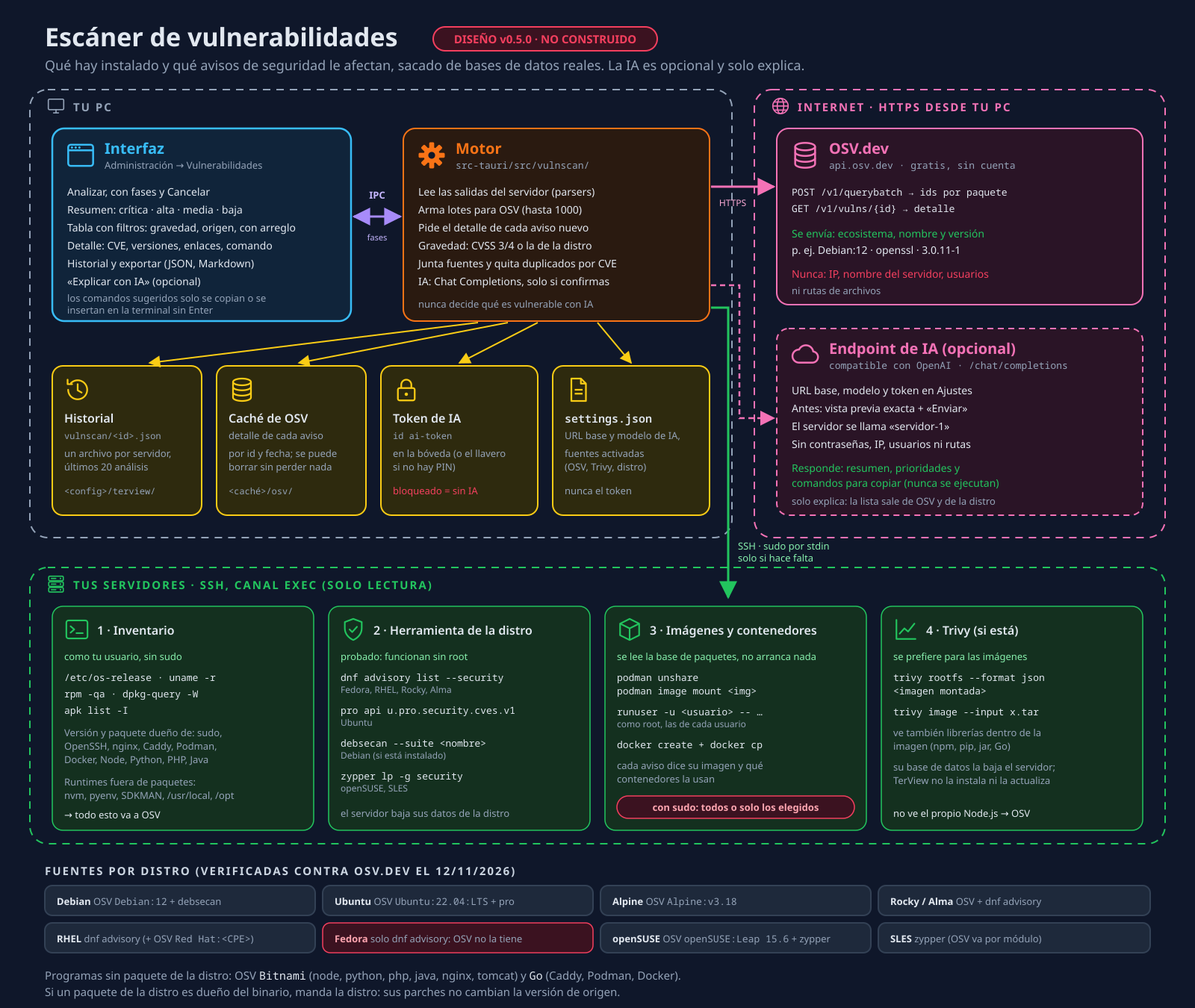
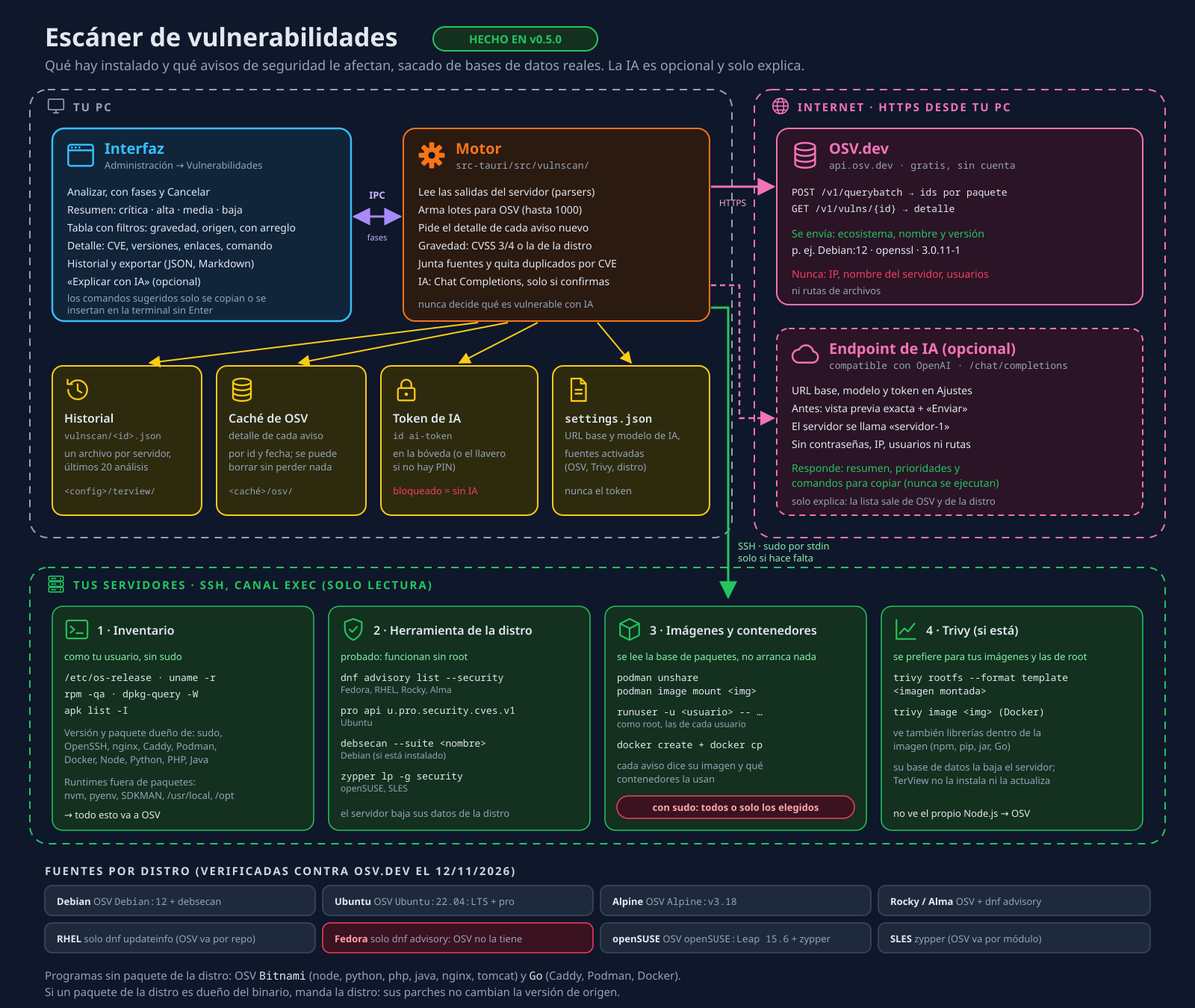
Documentación del escáner de vulnerabilidades (v0.5.0)
PENDIENTES sección 10 y ARQUITECTURA 16b pasan de diseño a construido, con las
pruebas, los cambios respecto al diseño y lo que queda sin verificar. Diagrama 17
actualizado. CHANGELOG y README.

Changed region(s): [[0.3438, 0.0, 0.5625, 0.0622], [0.8125, 0.6844, 0.8438, 0.7156]]

diff --git a/docs/PENDIENTES.md b/docs/PENDIENTES.md
@@ -7,7 +7,8 @@ varios servidores, GitHub, versiones y actualizaciones. Los comandos que se ejec
 **cancelar de verdad** (se detienen también en el servidor).
 
 **Lo que sigue pendiente:**
-- **Escáner de vulnerabilidades** (sección 10): diseñado para la v0.5.0, sin construir.
+- **Escáner de vulnerabilidades** (sección 10): **hecho para la v0.5.0**; falta probarlo a mano en la app
+  y lo de [10.14](#1014-sin-verificar-y-riesgos) (Docker real, SLES/RHEL, otros usuarios con systemd…).
 - **Servidor MCP** (sección 3): opcional, diseñado y en pausa.
 - **Firmar el instalador** de Windows (SmartScreen avisa al instalar).
 - **Pruebas reales**: en un Windows real, contra un servidor con 2FA y con un agente SSH real.
@@ -24,7 +25,7 @@ Este documento guarda lo que falta, **con suficiente detalle para retomarlo más
 | 3 | [Servidor MCP (conectar asistentes de IA)](#3-servidor-mcp-conectar-asistentes-de-ia) | **Opcional** (última fase) | Diseñado, en pausa |
 | 5 | [Exportar servidores a `~/.ssh/config`](#5-exportar-servidores-a-sshconfig) | Alta (corta) | ✅ Hecho (v0.2.0) |
 | 4 | [Otros pendientes detectados](#4-otros-pendientes-detectados) | Media/Baja | Mayoría hecha; ver tabla |
-| 10 | [Escáner de vulnerabilidades](#10-escáner-de-vulnerabilidades--diseñado-v050) (OSV.dev, herramientas de la distro, Trivy; IA opcional solo para explicar) | Alta (v0.5.0) | Diseñado (v0.5.0) |
+| 10 | [Escáner de vulnerabilidades](#10-escáner-de-vulnerabilidades--hecho-v050) (OSV.dev, herramientas de la distro, Trivy; IA opcional solo para explicar) | Alta (v0.5.0) | ✅ Hecho (v0.5.0) |
 
 **Orden sugerido:** 2 (reconexión) → 5 (exportar a `~/.ssh/config`) → 1 (biblioteca de comandos)
 → 3 (MCP, solo si hace falta; reutiliza `exec_capture` y el catálogo de la biblioteca).
@@ -554,12 +555,14 @@ empezando por **llaves SSH** y **sincronizar configuración**.
 
 ---
 
-## 10. Escáner de vulnerabilidades — diseñado (v0.5.0)
+## 10. Escáner de vulnerabilidades — hecho (v0.5.0)
 
-> **Estado: diseño, aún no construido.** El código actual no tiene nada de esto. Los comandos, nombres
-> de ecosistemas y formatos de salida de esta sección se **probaron de verdad el 12/11/2026** contra
-> OSV.dev y contenedores reales (ver [10.13](#1013-qué-se-comprobó-de-verdad-12112026)); lo que no se
-> pudo probar está en [10.14](#1014-sin-verificar-y-riesgos).
+> **Estado: construido (v0.5.0).** Motor en `src-tauri/src/vulnscan/` y `src-tauri/src/ai/`; interfaz en
+> Administración → **Vulnerabilidades** (`src/components/Admin/Vulns*.tsx`, `src/features/vulnscan/`) y
+> Ajustes → **Asistente de IA**. Los comandos, ecosistemas y formatos se probaron de verdad el 12/11/2026
+> (diseño, [10.13](#1013-qué-se-comprobó-de-verdad-12112026)) y otra vez al construirlo, con pruebas
+> automáticas contra contenedores reales ([10.15](#1015-pruebas)). Lo que cambió respecto al diseño está en
+> [10.16](#1016-cambios-respecto-al-diseño); lo que falta probar, en [10.14](#1014-sin-verificar-y-riesgos).
 
 ![Escáner de vulnerabilidades](arquitectura/17-vulnerabilidades.png)
 
@@ -872,26 +875,28 @@ importan, mejor en la carpeta de configuración.
 - La **IA** solo recibe lo que el usuario ve y confirma en el diálogo (10.8).
 - Nada sale del PC si las fuentes están desactivadas en Ajustes (modo «solo herramientas del servidor»).
 
-### 10.12 Plan de construcción por partes
+### 10.12 Cómo está construido
 
-Cada parte se puede probar sola. Orden sugerido:
+| Parte | Archivos | Qué hace |
+|-------|----------|----------|
+| 1. Modelo y parsers | `src-tauri/src/vulnscan/model.rs`, `parse/{osrelease,rpm,dpkg,apk,dnf,debsecan,ubuntu_pro,zypper,trivy,inventory}.rs` | Cada salida → `Package` (binario, fuente, versión, versión fuente) y hallazgos de cada herramienta. Tolerantes: lo que no se entiende se salta |
+| 2. Scripts del servidor | `vulnscan/scripts.rs` | Fases 1–4 en POSIX `sh` con secciones `@@` (detectar, usuarios, inventario, herramienta de la distro, listado de imágenes, una imagen). Entrar como otro usuario con `runuser -u` → `sudo -u -H` → `su -s /bin/sh`. La interfaz los pide con `vulnscan_script` |
+| 3. Ecosistemas | `vulnscan/ecosystem.rs` | `os-release` → ecosistema OSV (lista fija), Ubuntu Pro, qué herramienta usar, kernel, programas sueltos (Bitnami/Go) y si el vendedor es la distro |
+| 4. Cliente OSV y caché | `vulnscan/osv.rs`, `vulnscan/cache.rs` | `querybatch` en lotes de 1000 con paginación y reparto por ecosistema si OSV rechaza uno; detalle 8 a la vez con 2 reintentos; caché por `id` + `modified` en `<caché>/com.terview.app/osv/` |
+| 5. Gravedad | `vulnscan/severity.rs` | Distro → CVSS v2/v3/v4 (crate `cvss` 3) → sin clasificar |
+| 6. Juntar | `vulnscan/analyze.rs` | Une OSV, la herramienta de la distro y Trivy en una fila por CVE, paquete fuente y objetivo |
+| 7. Historial y exportar | `vulnscan/store.rs`, `vulnscan/export.rs` | `<config>/terview/vulnscan/<idServidor>.json` (20 análisis, 0600, se borra con el servidor); JSON y Markdown |
+| 8. Comandos Tauri | `vulnscan/commands.rs`, `lib.rs` | `vulnscan_script`, `vulnscan_plan`, `vulnscan_parse_users`, `vulnscan_parse_images`, `vulnscan_analyze` (+ evento `vulnscan://progress`), `vulnscan_cancel`, `vulnscan_history_list/get/delete`, `vulnscan_latest`, `vulnscan_set_ai`, `vulnscan_export`, `vulnscan_vuln_detail` |
+| 9. Análisis sin sudo desde el motor | `vulnscan/scan.rs` | `scan_session(sesión, opciones)`: las mismas fases sin la interfaz. Lo usan las pruebas y lo podrá usar el servidor MCP (`scan_vulnerabilities`); `store::latest_report(id)` sirve para `get_vuln_report`. **Aún no conectado al MCP** |
+| 10. IA | `src-tauri/src/ai/mod.rs` | `ai_status`, `ai_set_token`, `ai_test` (`GET /models`), `ai_chat` (`POST /chat/completions`, cancelable con `ai_cancel`). Token `ai-token`, que `enable_vault` mueve a la bóveda |
+| 11. Fases en la interfaz | `src/features/vulnscan/run.ts` | Ejecuta cada fase con `runScript` + `execId` (con o sin sudo), Cancelar, y pasa las salidas a `vulnscan_analyze` |
+| 12. Interfaz | `src/components/Admin/VulnsTab.tsx`, `VulnSummary.tsx`, `VulnDetail.tsx`, `VulnsDialogs.tsx`, `AiExplainDialog.tsx`, `MiniMarkdown.tsx`, `vulnUi.tsx`, `Vulns.css`; `src/api/vulnscan.ts` | Lo de 10.9. Las opciones del escáner (fuentes, imágenes, límite) están en «Opciones» dentro de la pestaña |
+| 13. Comando sugerido y texto para la IA | `src/features/vulnscan/fixCommand.ts`, `aiPayload.ts` | Funciones puras; probadas con `vulnscan.test.ts` |
+| 14. Ajustes de IA | `src/components/Settings/AiSection.tsx` | URL base, modelo, token, «Probar» |
+| 15. Atajo desde Contenedores | `src/components/Containers/ImagesTab.tsx`, `src/features/vulnscan/nav.ts` | «Ver vulnerabilidades» de una imagen |
 
-| Parte | Archivos previstos | Qué hace |
-|-------|--------------------|----------|
-| 1. Parsers y modelo | `src-tauri/src/vulnscan/mod.rs`, `model.rs`, `parse/{rpm,dpkg,apk,osrelease,dnf,debsecan,ubuntu_pro,zypper,trivy}.rs`, `tests.rs` | Leer cada salida y convertirla en `Package { ecosistema, fuente, binario, versión, origen }` y `Finding`; mapa `os-release` → ecosistema OSV (lista fija) |
-| 2. Cliente OSV | `vulnscan/osv.rs`, `vulnscan/cache.rs` | `querybatch` en lotes de 1000 con paginación, detalle en paralelo con caché, rangos del ecosistema correcto, agrupado por CVE. Cliente reqwest propio con host fijo `api.osv.dev` (sin token) |
-| 3. Gravedad | `vulnscan/severity.rs` | Distro → CVSS (crate `cvss`) → sin clasificar |
-| 4. Historial | `vulnscan/store.rs` | `vulnscan/<id>.json` con `fsutil` |
-| 5. Comandos Tauri | `vulnscan/commands.rs`, registro en `lib.rs`, capability | `vulnscan_query_osv(packages)`, `vulnscan_history_list/get/save/delete(serverId)`, `vulnscan_export(path, formato)`; progreso por evento `vulnscan://progress` |
-| 6. Scripts del servidor | `src/features/vulnscan/scripts.ts`, `run.ts` | Scripts POSIX de las fases 1–4 con secciones `@@` (como `PORTS_SCRIPT`), elevación con `runScript` + `execId`, usuario por usuario con `runuser`/`sudo -u`/`su` |
-| 7. Interfaz | `src/components/Admin/VulnsTab.tsx`, `VulnDetail.tsx`, `VulnSummary.tsx`, entrada en `TABS` de `AdminPanel.tsx`, `src/api/vulnscan.ts`, tipos en `types.rs` + `api/types.ts` | Lo de 10.9 |
-| 8. Comando sugerido por distro | `src/features/vulnscan/fixCommand.ts` | Texto para copiar o insertar; nunca se ejecuta |
-| 9. IA | `src-tauri/src/ai/{mod,client}.rs`, `src/features/vulnscan/aiPayload.ts`, `src/components/Admin/AiExplainDialog.tsx`, sección en `SettingsDialog`; `ai-token` en `enable_vault`/`disable_vault` | 10.8 |
-| 10. Atajo desde Contenedores | `src/components/Containers/…` | «Ver vulnerabilidades» de una imagen |
-
-Dependencias nuevas previstas: el crate `cvss` (solo cálculo, sin red). `reqwest`, `serde_json`, `chrono`
-y `tokio` ya están. En la interfaz, ninguna (el Markdown de la IA se pinta con un renderizador mínimo
-propio o como texto con bloques de código; nada de HTML de la respuesta).
+Dependencia nueva: el crate `cvss` 3 (solo cálculo, sin red). En la interfaz, ninguna (la respuesta de
+la IA se pinta con un renderizador mínimo propio, sin HTML).
 
 ### 10.13 Qué se comprobó de verdad (12/11/2026)
 
@@ -923,38 +928,97 @@ TSV, `zypper --xmlout list-patches`.
 
 ### 10.14 Sin verificar y riesgos
 
-- **Docker** real: `docker create` + `docker cp` y `trivy image` con el socket (solo se probó el flujo
-  equivalente con Podman). Docker rootless de otro usuario.
-- `zypper list-patches` **con** parches pendientes (el contenedor Leap 15.6 estaba al día) y SLES.
-- RHEL de verdad (suscripción) y el mapeo de CPE por repositorio para `Red Hat:<CPE>`.
-- `machinectl shell` / `loginctl enable-linger`: no hicieron falta en las pruebas, pero no se probaron
-  con systemd real, ni contenedores rootless **corriendo** de otro usuario lanzados desde su sesión.
-- Imágenes «distroless» (`status.d`), imágenes sin gestor de paquetes (scratch, Go estático): solo Trivy
-  ve algo.
+- **La interfaz en la app real**: compila y sus funciones puras tienen pruebas, pero nadie la ha usado aún
+  con el ratón (ver los pasos de prueba manual en el CHANGELOG / informe de la v0.5.0).
+- **Docker** real: `docker create` + `docker cp`, el `rpm` de la imagen con `docker run` y `trivy image`
+  con el socket (en este PC Docker pide root y no hay contraseña). Docker rootless de otro usuario.
+- **Otros usuarios con sudo** (`runuser`/`sudo -u -H`/`su`): se probó en el diseño con Podman 6.1.3, pero
+  no con el script final. Ni `machinectl`/`loginctl enable-linger` con systemd real, ni contenedores
+  rootless **corriendo** de otro usuario.
+- `zypper list-patches` **con** parches pendientes (el parser se probó con un ejemplo hecho a mano) y SLES.
+- RHEL de verdad (suscripción); `yum` de CentOS 7 (se lee igual que dnf4, sin probar).
+- `debsecan` y `pro` de verdad por el script final (sus parsers se probaron con salidas reales capturadas).
+- Imágenes «distroless» (`status.d`) e imágenes sin gestor de paquetes (scratch, Go estático): solo Trivy
+  ve algo. Trivy en general (no hay `trivy` en este PC: se probó el parser con su salida real).
 - `pro api u.pro.security.cves.v1` en versiones viejas del cliente `pro` (probado con la 38).
-- Que el crate `cvss` puntúe bien CVSS v4.
-- Tiempos en servidores grandes (miles de paquetes, decenas de imágenes) y uso de disco de las cachés
-  de dnf/debsecan en `$HOME` al ir sin root.
+- Kernel de Debian/Ubuntu en un servidor real (`linux-signed-*` se consulta también como `linux`).
+- Tiempos en servidores grandes (miles de paquetes, decenas de imágenes) y disco de las cachés de
+  dnf/debsecan en `$HOME` al ir sin root.
 - La IA: que modelos distintos respeten «no inventes CVE». Por eso el panel lo marca como texto de IA y
   la tabla nunca se toca.
 
-### 10.15 Pruebas previstas
+### 10.15 Pruebas
 
-- **Unitarias en Rust** (`cargo test --lib vulnscan`) con las salidas reales de 10.13 como datos fijos:
-  cada parser; `os-release` → ecosistema (Debian 12, Ubuntu 22.04 LTS y no LTS, Alpine 3.18.0 → `v3.18`,
-  Rocky/Alma 9.0 → `9`, Leap 15.6 → `openSUSE:Leap 15.6`, Fedora → ninguno); RPM sin epoch y nombre
-  fuente desde `%{SOURCERPM}`; armado de lotes (1000) y reintento solo de las páginas pendientes;
-  agrupado por CVE (`DSA` + `DEBIAN-CVE`); gravedad (Red Hat, Ubuntu, Debian `unimportant`, CVSS v3 y
-  v4); «tiene arreglo»; dueño del binario → distro o upstream; plantilla de Trivy.
-- **Con el servidor de pruebas** (`#[ignore]`, `connect_test_server()` como en `snippets/tests.rs`):
-  inventario por exec como `test` (sin sudo) y que el análisis termine con 0 avisos o los que haya;
-  cancelar a mitad (con `execId`) y comprobar que el proceso muere en el servidor.
-- **Consulta real a OSV** (`#[ignore]`, necesita red): `alpine:3.18.0` debe devolver
-  `ALPINE-CVE-2023-2650` para openssl `3.1.0-r4`; `Fedora:41` debe dar «ecosistema no soportado» sin
-  tumbar el resto.
-- **Contenedores viejos** (`#[ignore]`, con podman): `debian:12.0`, `alpine:3.18.0`, `rockylinux:9.0`,
-  `almalinux:9.0`, `ubuntu:22.04` y un `fedora:44` con paquetes bajados, levantados con sshd o leídos
-  con `podman image mount`: deben salir los CVE de la tabla 10.13.
-- **TS puro** (`npx rolldown <archivo>.ts -p node -f esm -o out.mjs && node out.mjs`): `aiPayload.ts`
-  (que no salgan nombre del servidor, IP, usuarios ni rutas) y `fixCommand.ts` por distro.
-- Sin avisos nuevos: `npm run build`, `cargo test`, `cargo clippy --all-targets`.
+Todas pasan (12/11/2026). Datos fijos reales en `src-tauri/src/vulnscan/fixtures/` (salidas capturadas en
+el diseño y respuestas reales de OSV en `fixtures/osv/`).
+
+- **Unitarias en Rust** (`cd src-tauri && cargo test --lib vulnscan`, 33 pruebas): cada parser con su
+  salida real; `os-release` → ecosistema (Debian 12, Ubuntu 22.04 LTS y no LTS, Alpine 3.18.0 → `v3.18`,
+  Rocky/Alma 9.0 → `9`, Leap 15.6, Tumbleweed, Fedora → ninguno); RPM sin epoch y fuente desde
+  `%{SOURCERPM}`; lotes de 1000 y repetición solo de las consultas paginadas; ecosistema inválido sin
+  tumbar el resto; caché por `modified`; junta por CVE (`DSA` + `DEBIAN-CVE` + debsecan en una fila);
+  gravedad (Red Hat, Ubuntu, Debian `unimportant`, CVSS v3 y **v4**, comprobado contra la calculadora de
+  FIRST); «tiene arreglo»; programas sueltos y de terceros; plantilla de Trivy (592 hallazgos de Rocky);
+  historial (20, 0600, IA) y exportar; los scripts pasan `sh -n` y las fases 1–2 corren en este PC.
+- **OSV real** (`cargo test --lib vulnscan::live_tests::osv -- --ignored`): `Alpine:v3.18` da
+  `ALPINE-CVE-2023-2650` para openssl `3.1.0-r4` (22 avisos en total) y `Fedora:41` se rechaza sin tumbar
+  el lote.
+- **Contenedores viejos** (`cargo test --lib vulnscan::live_tests::distro -- --ignored`): los scripts de las
+  fases 1–2 se ejecutan dentro de cada imagen y el informe se arma con OSV real:
+
+  | Imagen | Resultado |
+  |--------|-----------|
+  | `debian:12.0` | 88 paquetes, 195 hallazgos (9 críticos; 36 «unimportant» ocultos). `CVE-2024-12133` en libtasn1-6 con `DSA-5863-1`, arreglado en `4.19.0-2+deb12u1`; `CVE-2023-45853` en zlib sin arreglo |
+  | `alpine:3.18.0` | 22 hallazgos (3 críticos): `CVE-2023-2650` en openssl con alias `ALPINE-CVE-2023-2650` |
+  | `rockylinux:9.0` | 195 avisos de OSV → 369 hallazgos por CVE. `CVE-2022-32206` en curl con `RLSA-2022:6157`, `Moderate`, arreglado en `7.76.1-14.el9_0.5` |
+  | `rockylinux:9.0` + `dnf updateinfo` (con red, 2 min) | dnf y OSV en las mismas filas (`ca-certificates` `CVE-2026-114406` crítica de dnf) |
+  | `almalinux:9.0` | 224 avisos → 414 hallazgos; `ALSA-2023:0333` (curl) |
+  | `ubuntu:22.04` | 60 hallazgos; ncurses (`UBUNTU-CVE-2023-50495`) |
+  | `fedora:44` + `dnf advisory` (dnf5, con red, 9 min) | 146 paquetes; dnf5 funciona sin root y da 0 avisos (la imagen ya está al día); nada va a OSV. Con avisos se probó el parser con la salida real capturada en el diseño |
+
+- **Imágenes de podman en este PC** (`…::live_tests::images -- --ignored`): `podman unshare` + `image mount`
+  leen `alpine:3.18.0` (apk), `debian:12.0` (dpkg) y `rockylinux:9.0` (`rpm --dbpath` con el rpm del
+  anfitrión); 586 hallazgos y no queda nada montado. El respaldo `podman run --network=none --entrypoint rpm`
+  se comprobó a mano con `almalinux:9.0`.
+- **Servidor de pruebas por SSH sin sudo** (`…::live_tests::sshd -- --ignored --test-threads=1`):
+  `terview-sshd` (Alpine 3.24): 65 paquetes, 46 consultas a OSV, 0 hallazgos (está al día), `sudo` con
+  su paquete dueño; y cancelar a mitad devuelve «Cancelado».
+- **TS puro** (`npx rolldown src/features/vulnscan/vulnscan.test.ts -p node -f esm -o out.mjs && node out.mjs`,
+  39 comprobaciones): el texto para la IA no lleva nombre/id del servidor, usuarios, rutas de `$HOME`,
+  nombres de contenedores ni el host del registro; máximo 60 hallazgos por gravedad; comando sugerido
+  por distro (apt, dnf/yum, apk, zypper, kernel, imágenes, nvm/pyenv).
+- `npm run build`, `cargo test` y `cargo clippy --all-targets`: sin errores ni avisos nuevos (el aviso de
+  Vite de «chunks» de más de 500 kB es de Monaco y xterm, de antes).
+
+### 10.16 Cambios respecto al diseño
+
+- **Los scripts del servidor están en el motor** (`vulnscan/scripts.rs`), no en `scripts.ts`: así la
+  interfaz, las pruebas de Rust y el futuro MCP usan exactamente los mismos. La interfaz los pide con
+  `vulnscan_script` y sigue ejecutándolos ella con `runScript` (su elevación y su `execId`).
+- **Comandos distintos a los previstos**: en vez de `vulnscan_query_osv(packages)` hay `vulnscan_analyze`
+  (recibe las salidas en bruto: el motor las lee, consulta OSV, junta y guarda). Hay además
+  `vulnscan_plan`, `vulnscan_parse_users`, `vulnscan_parse_images`, `vulnscan_latest` y `vulnscan_cancel`,
+  para que la interfaz no tenga que leer las salidas.
+- **RHEL no usa OSV** (`Red Hat:<CPE>` depende del repositorio de cada paquete y no se sabe sin más datos):
+  solo `dnf updateinfo`.
+- **Trivy solo para las imágenes del usuario conectado y las de root.** Para las de otros usuarios se lee
+  su base de paquetes: Trivy bajaría su base (1,7 GB) a la carpeta de cada usuario. Trivy no se usa para
+  el sistema (sería lento): el sistema va por OSV y la herramienta de la distro.
+- **Imágenes sin etiqueta y sin contenedores no se leen** (restos de compilaciones) y no cuentan para el
+  límite; primero van las que usan contenedores. El informe dice cuántas se saltaron.
+- **Debian «not yet assigned»** pasa a CVSS en vez de quedar «sin clasificar» (es más útil). Si dos
+  fuentes dan distinta gravedad de distro, se queda la más alta.
+- **Detalle de avisos con 2 reintentos**: sin ellos, 7 de 195 avisos de Rocky fallaban de vez en cuando con
+  8 peticiones a la vez. `querybatch` tiene 60 s de límite (el detalle, 25 s).
+- **El historial guarda solo el título** de cada hallazgo (200 caracteres); la descripción completa se pide
+  al abrir el detalle (`vulnscan_vuln_detail`, desde la caché de OSV). Cada informe guarda lo que se envió a
+  OSV (`osvSample`, hasta 1000 consultas) para «ver qué se envía».
+- **Ajustes**: `settings.json` tiene dos objetos nuevos, `vulnscan` (fuentes, imágenes, límite, usuarios por
+  servidor) y `ai` (activado, URL base, modelo). Las opciones del escáner se cambian en «Opciones» dentro
+  de la pestaña; la IA en Ajustes → **Asistente de IA**. `ai_test` y `ai_chat` usan siempre la URL
+  **guardada** (el token nunca va a una URL que no esté en Ajustes) y no siguen redirecciones.
+- **Programas sueltos**: también `httpd`/`apache2` (`Bitnami/apache`) y `postgres` (`Bitnami/postgresql`).
+  Los paquetes RPM con vendedor de terceros (`%{VENDOR}`) no se comparan con la distro.
+- **Kernel**: `linux-signed-*` se consulta también como `linux` (o `linux-hwe-…`).
+- **Runtimes de `$HOME`**: solo los del usuario conectado (con sudo no se miran los de otros usuarios).
+- **Docker**: `docker ps` no da el id de imagen; los contenedores se relacionan con `docker inspect`.

diff --git a/docs/ARQUITECTURA.md b/docs/ARQUITECTURA.md
@@ -47,7 +47,7 @@ lenguaje visual: zonas con borde discontinuo (Tu PC, Internet, Tus servidores, G
 | 14 | [GitHub](arquitectura/14-github.png) | Token, llaves, despliegues, Actions y Gist cifrado |
 | 15 | [Bóveda y bloqueo](arquitectura/15-boveda-y-bloqueo.png) | PIN, cómo se saca la llave, estados y qué protege |
 | 16 | [Terminales con tmux](arquitectura/16-terminales-tmux.png) | Terminales que siguen vivas aunque se corte la red |
-| 17 | [Escáner de vulnerabilidades](arquitectura/17-vulnerabilidades.png) | **Diseño v0.5.0, no construido** (ver sección 16b): OSV.dev, herramientas de la distro, Trivy e IA opcional |
+| 17 | [Escáner de vulnerabilidades](arquitectura/17-vulnerabilidades.png) | **Hecho en v0.5.0** (ver sección 16b): OSV.dev, herramientas de la distro, Trivy e IA opcional |
 
 Lo que falta y el plan detallado: **[PENDIENTES.md](PENDIENTES.md)**.
 Todos los comandos de la biblioteca: **[comandos/CATALOGO.md](comandos/CATALOGO.md)**.
@@ -93,9 +93,9 @@ La app tiene dos mitades dentro del mismo programa:
 | **Memoria de la interfaz** | Contraseña de sudo por conexión (`useSudo`), privilegios detectados, pestañas abiertas. La contraseña de sudo se olvida al cerrar la pestaña, al perder la conexión o al bloquear TerView. | Stores de zustand sin persistencia | RAM | — | Interfaz: `features/privileges/`, `features/lock/` y `stores/` |
 | **Sesiones tmux** (en el servidor) | Terminales persistentes `terview-<id>` con su historial (50.000 líneas). | Servidor tmux propio `-L terview` | Tu servidor | — | Motor: `terminal/tmux.rs` por SSH |
 | **Gist secreto** (GitHub) | `terview-sync.json`: copia de servidores, proyectos y comandos, sin contraseñas. | JSON cifrado | Tu cuenta de GitHub | Sí: AES-256-GCM con clave derivada por Argon2id de una frase que nunca se guarda | Motor: `github/crypto.rs`, `github/mod.rs` |
-| **`vulnscan/<idServidor>.json`** *(previsto v0.5.0, no construido)* | Historial del escáner de vulnerabilidades: los últimos 20 análisis del servidor (inventario resumido, hallazgos, fuentes y la explicación de IA si la hubo). | JSON | `<config>/terview/vulnscan/` | No (0600) | Motor: `vulnscan/store.rs` (previsto) |
-| **Caché de OSV** *(prevista v0.5.0)* | Detalle de cada aviso de OSV por id y fecha de modificación; se puede borrar sin perder nada. | Un JSON por aviso | Linux `~/.cache/com.terview.app/osv/` (caché del sistema en Windows y macOS) | No | Motor: `vulnscan/cache.rs` (previsto) |
-| **Token de IA** *(previsto v0.5.0)* | Token del endpoint de IA compatible con OpenAI, id `ai-token`. URL base y modelo van en `settings.json`, nunca el token. | Secreto | Bóveda (`vault.json`) si hay PIN; si no, llavero del sistema | Sí | Motor: `storage/secrets.rs` (`get_secret`/`set_secret`) |
+| **`vulnscan/<idServidor>.json`** *(v0.5.0)* | Historial del escáner de vulnerabilidades: los últimos 20 análisis del servidor (inventario resumido, hallazgos, fuentes y la explicación de IA si la hubo). | JSON | `<config>/terview/vulnscan/` | No (0600) | Motor: `vulnscan/store.rs` |
+| **Caché de OSV** *(v0.5.0)* | Detalle de cada aviso de OSV por id y fecha de modificación; se puede borrar sin perder nada. | Un JSON por aviso | Linux `~/.cache/com.terview.app/osv/` (caché del sistema en Windows y macOS) | No | Motor: `vulnscan/cache.rs` |
+| **Token de IA** *(v0.5.0)* | Token del endpoint de IA compatible con OpenAI, id `ai-token`. URL base y modelo van en `settings.json`, nunca el token. | Secreto | Bóveda (`vault.json`) si hay PIN; si no, llavero del sistema | Sí | Motor: `ai/mod.rs` con `storage/secrets.rs` (`get_secret`/`set_secret`); `enable_vault` lo mueve a la bóveda |
 | **Releases** (GitHub) | Instaladores, sus firmas `.sig` y `latest.json`. | Archivos | `github.com/LeoMael/TerView/releases` | Firmados (minisign), no cifrados | GitHub Actions los sube; el actualizador de la app los lee |
 
 ### Qué significa cada flecha del mapa
@@ -107,9 +107,9 @@ La app tiene dos mitades dentro del mismo programa:
 | Motor → GitHub (**HTTPS, API**) | HTTPS con reqwest + rustls (sin OpenSSL) | API REST de GitHub; solo hosts de GitHub (`ALLOWED_HOSTS`); token en la cabecera `Authorization`, nunca en registros | `github/http.rs`, `github/api.rs` |
 | Motor → GitHub (**¿versión nueva?**) | HTTPS | `releases/latest/download/latest.json`, descarga del instalador y verificación de la firma | `tauri-plugin-updater` (lo usa `src/features/updater/`) |
 | Servidor → GitHub (**git clone**) | git por SSH | El servidor clona con su propia llave de despliegue de solo lectura (`GIT_SSH_COMMAND`); TerView solo le envía los comandos por `exec` | `src/features/github/shell.ts` |
-| Motor → **OSV.dev** *(previsto v0.5.0)* | HTTPS con reqwest + rustls | `POST api.osv.dev/v1/querybatch` (≤ 1000 paquetes por lote) y `GET /v1/vulns/{id}`. Solo ecosistema, nombre y versión de paquetes; nunca IP, nombre del servidor ni usuarios. Sin token | `vulnscan/osv.rs` (previsto) |
-| Motor → **endpoint de IA** *(previsto v0.5.0, opcional)* | HTTPS (HTTP solo a `localhost`) | `POST <URL base>/chat/completions`, compatible con OpenAI; token en `Authorization`. Solo tras mostrar el texto exacto y confirmar | `ai/` (previsto) |
-| Servidor → repos de su distro *(previsto v0.5.0)* | Lo que use cada herramienta | `dnf advisory`, `debsecan`, `pro`, `zypper` y Trivy bajan sus propios datos desde el servidor, como al actualizar | Scripts de `features/vulnscan/` (previsto) |
+| Motor → **OSV.dev** *(v0.5.0)* | HTTPS con reqwest + rustls | `POST api.osv.dev/v1/querybatch` (≤ 1000 paquetes por lote) y `GET /v1/vulns/{id}`. Solo ecosistema, nombre y versión de paquetes; nunca IP, nombre del servidor ni usuarios. Sin token ni redirecciones | `vulnscan/osv.rs` |
+| Motor → **endpoint de IA** *(v0.5.0, opcional)* | HTTPS (HTTP solo a `localhost`) | `POST <URL base>/chat/completions`, compatible con OpenAI; token en `Authorization`. Solo tras mostrar el texto exacto y confirmar; solo a la URL guardada en Ajustes | `ai/mod.rs` |
+| Servidor → repos de su distro *(v0.5.0)* | Lo que use cada herramienta | `dnf advisory`, `debsecan`, `pro`, `zypper` y Trivy bajan sus propios datos desde el servidor, como al actualizar | Scripts de `vulnscan/scripts.rs`, ejecutados por `features/vulnscan/run.ts` |
 | Motor ↔ disco | Archivos y llavero del sistema | Escritura atómica (temporal + renombrar); archivo dañado → se aparta como `.bak-<fecha>` | `storage/fsutil.rs`, `storage/secrets.rs` |
 | Interfaz ↔ `localStorage` | API Web Storage del motor web | Lectura y escritura síncronas, siempre con try/catch | `features/*`, `components/*` |
 
@@ -134,6 +134,7 @@ Cada función que ves tiene una pieza del motor que hace el trabajo real:
 | Actualizaciones | plugins `updater` y `process` |
 | Ajustes → Seguridad (PIN y bloqueo) | `storage/vault.rs`, `storage/lock.rs` |
 | Ajustes → Diagnóstico, exportar comandos | `diagnostics.rs`, `localfs.rs` |
+| Administración → Vulnerabilidades, Ajustes → Asistente de IA | `vulnscan/` (+ exec para las fases del servidor), `ai/` |
 
 **Hay dos tipos de mensaje:**
 
@@ -534,42 +535,56 @@ y ver resultado"), la detección de privilegios y GitHub (clonar y desplegar).
 
 ---
 
-## 16b. Escáner de vulnerabilidades (diseño v0.5.0, aún no construido · diagrama 17)
+## 16b. Escáner de vulnerabilidades (v0.5.0 · diagrama 17)
 
 ![Escáner de vulnerabilidades](arquitectura/17-vulnerabilidades.png)
 
-> **Esto es un diseño, no algo construido.** El código actual no tiene escáner. Está planificado para la
-> v0.5.0; el diseño completo, lo que se comprobó de verdad y el plan por partes están en
-> [PENDIENTES.md, sección 10](PENDIENTES.md#10-escáner-de-vulnerabilidades--diseñado-v050).
+Sub-pestaña **«Vulnerabilidades»** en Administración. Dice qué hay instalado (paquetes, kernel, sudo,
+OpenSSH, nginx, Caddy, Podman, Docker, Node, Python, PHP, Java e imágenes de contenedores) y qué avisos
+de seguridad le afectan, con gravedad, si tiene arreglo y el comando para actualizar (solo para copiar o
+insertar en la terminal sin Enter). Detalle, pruebas y cambios respecto al diseño:
+[PENDIENTES.md, sección 10](PENDIENTES.md#10-escáner-de-vulnerabilidades--hecho-v050).
 
-- **Qué hará:** sub-pestaña «Vulnerabilidades» en Administración. Dice qué hay instalado (paquetes,
-  kernel, sudo, OpenSSH, nginx, Caddy, Podman, Docker, Node, Python, PHP, Java e imágenes de
-  contenedores) y qué avisos de seguridad le afectan, con gravedad, si tiene arreglo y el comando para
-  actualizar (solo para copiar o insertar en la terminal sin Enter).
-- **La lista sale de bases de datos reales, nunca de una IA:**
-  - **OSV.dev**, consultado desde el motor en tu PC (`POST /v1/querybatch`, hasta 1000 paquetes por
-    lote, y `GET /v1/vulns/{id}`). Solo viaja ecosistema, nombre y versión de cada paquete.
-  - **La herramienta de seguridad de la distro**, en el servidor por exec y sin root: `dnf advisory` /
-    `dnf updateinfo`, `pro api u.pro.security.cves.v1` (Ubuntu), `debsecan` (Debian, si está) y
-    `zypper list-patches` (SUSE).
-  - **Trivy**, si el servidor ya lo tiene; se prefiere para las imágenes.
-- **Cobertura:** Debian, Ubuntu, Alpine, Rocky, AlmaLinux y openSUSE con OSV más su herramienta;
-  RHEL y SLES sobre todo con su herramienta; **Fedora no está en OSV**: solo se ven las actualizaciones de
-  seguridad pendientes (`dnf advisory`), no lo que aún no tiene arreglo. Programas sin paquete de la
-  distro (nvm, pyenv, tarballs): OSV `Bitnami` y `Go` por su versión de origen.
-- **Privilegios:** sin sudo, el sistema (los paquetes se listan igual) y lo del usuario conectado; con
-  sudo, además los contenedores e imágenes de root y de todos los usuarios (o solo los elegidos), entrando
-  como cada uno con `runuser -u` / `sudo -u -H`. Usa la elevación de la sección 8 (`runScript`,
-  `readElevated`) y cada fase lleva `execId` para poder cancelar de verdad.
-- **Imágenes:** se lee su base de paquetes sin arrancar sus servicios (`podman image mount` dentro de
-  `podman unshare`, `docker create` + `docker cp`, o solo el `rpm` de la imagen sin red). Cada hallazgo
-  dice su imagen y qué contenedores la usan.
-- **IA opcional, solo para explicar:** endpoint compatible con OpenAI (`/chat/completions`), URL y modelo
-  en `settings.json`, token `ai-token` en la bóveda o el llavero (bloqueado = sin IA). Antes de enviar se
-  muestra el texto exacto (el servidor se llama «servidor-1»; sin IP, usuarios, rutas ni secretos) y hay
-  que confirmar. Los comandos que proponga nunca se ejecutan solos.
-- **Se guardará:** historial por servidor en `<config>/terview/vulnscan/<idServidor>.json` (20 análisis) y
-  una caché de avisos de OSV en `<caché>/osv/`. Exportar a JSON y Markdown.
+**Cómo va un análisis:**
+
+1. La interfaz (`src/features/vulnscan/run.ts`) pide al motor el script de cada fase (`vulnscan_script`) y lo
+   ejecuta en el servidor con `runScript`, cada uno con su `execId` (Cancelar lo detiene en el servidor):
+   detectar (20 s) → inventario (60 s) → herramienta de la distro (300 s) → con sudo, usuarios con
+   contenedores → listado de imágenes y una lectura por imagen (120–180 s). Las fases 1–3 van sin root.
+2. Las salidas en bruto vuelven al motor con `vulnscan_analyze` (`src-tauri/src/vulnscan/`):
+   - `parse/` las lee (rpm, dpkg, apk, dnf4/dnf5, debsecan, pro, zypper, Trivy);
+   - `ecosystem.rs` elige el ecosistema de OSV de una lista fija (un ecosistema inválido tumba un lote);
+   - `osv.rs` consulta `api.osv.dev` en lotes de 1000 con paginación, pide el detalle de cada aviso (8 a la
+     vez, con reintentos) y lo guarda en la caché (`cache.rs`);
+   - `analyze.rs` junta OSV, la distro y Trivy en **una fila por CVE, paquete fuente y objetivo**, y
+     `severity.rs` pone la gravedad (distro → CVSS v2/v3/v4 → sin clasificar);
+   - `store.rs` lo guarda en el historial. El progreso llega por el evento `vulnscan://progress`.
+3. La interfaz pinta el resumen, la tabla (`VulnsTab.tsx`), el detalle (`VulnDetail.tsx`) y el historial.
+
+**Fuentes (la lista sale de bases reales, nunca de una IA):**
+- **OSV.dev** desde tu PC: solo ecosistema, nombre y versión de paquetes (cada informe guarda lo enviado
+  para «ver qué se envía»). Debian, Ubuntu (y Ubuntu Pro), Alpine, Rocky, AlmaLinux y openSUSE; programas
+  sin paquete de la distro por `Bitnami` y `Go`.
+- **La herramienta de la distro**, en el servidor y sin root: `dnf updateinfo` / `dnf advisory`,
+  `pro api u.pro.security.cves.v1`, `debsecan` (si está) y `zypper list-patches`. Fedora y RHEL solo
+  con ella.
+- **Trivy**, si el servidor ya lo tiene: para las imágenes del usuario conectado y de root, con una
+  plantilla de una línea por hallazgo (el JSON pasa del límite de 2 MB del canal exec).
+
+**Imágenes:** se lee su base de paquetes sin arrancar nada: `podman image mount` (dentro de
+`podman unshare` si no eres root) y `rpm --dbpath` del anfitrión, o solo el `rpm` de la imagen sin red; en
+Docker `docker create` + `docker cp`. Con sudo se entra como cada usuario con `runuser -u` / `sudo -u -H`
+/ `su`. Cada hallazgo dice su imagen y qué contenedores la usan.
+
+**IA opcional (`src-tauri/src/ai/`), solo para explicar:** endpoint compatible con OpenAI. URL base y
+modelo en `settings.json` (`ai`), token `ai-token` en la bóveda o el llavero (bloqueado = sin IA). HTTPS
+obligatorio salvo `localhost`; sin redirecciones; el token solo va a la URL guardada. Antes de enviar se
+muestra el texto exacto (el servidor se llama «servidor-1»; sin IP, usuarios, rutas, contenedores ni
+secretos) y hay que confirmar. Los comandos que proponga nunca se ejecutan solos.
+
+**Para reutilizar** (p. ej. el servidor MCP, sin conectar aún): `vulnscan::store::latest_report(id)` da el
+último informe de un servidor y `vulnscan::scan::scan_session(sesión, opciones)` hace un análisis completo
+sin sudo desde el motor, con los mismos scripts.
 
 ---
 
@@ -616,7 +631,7 @@ y ver resultado"), la detección de privilegios y GitHub (clonar y desplegar).
 | 19 | Arrastrar al escritorio | Hecho; falta probar en Windows real y compilar en macOS |
 | 20 | Terminales persistentes con tmux (ver sección 15) | Hecho |
 | 21 | PIN, bóveda de contraseñas y bloqueo (ver sección 14) | Hecho |
-| 22 | Escáner de vulnerabilidades (ver sección 16b, [detalle](PENDIENTES.md#10-escáner-de-vulnerabilidades--diseñado-v050)) | Diseñado (v0.5.0), no construido |
+| 22 | Escáner de vulnerabilidades (ver sección 16b, [detalle](PENDIENTES.md#10-escáner-de-vulnerabilidades--hecho-v050)) | Hecho (v0.5.0); falta probar Docker real y otros usuarios con systemd |
 
 ---
 

diff --git a/CHANGELOG.md b/CHANGELOG.md
@@ -6,6 +6,23 @@ siguen [Versionado Semántico](https://semver.org/lang/es/).
 
 ## [Sin publicar]
 
+### Añadido
+- **Escáner de vulnerabilidades** (Administración → **Vulnerabilidades**): un botón **Analizar** que dice
+  qué software tiene el servidor (paquetes, kernel, sudo, OpenSSH, nginx, Caddy, Podman, Docker, Node,
+  Python, PHP, Java e imágenes de contenedores) y qué vulnerabilidades conocidas le afectan.
+  - La lista sale de bases de datos reales: **OSV.dev** (consultado desde tu PC, solo con nombres y
+    versiones de paquetes), la herramienta de seguridad de la distro (`dnf`, `debsecan`, `pro`,
+    `zypper`) y **Trivy** si el servidor lo tiene. Nunca de una IA.
+  - Resumen por gravedad, cambios desde el análisis anterior, tabla con filtros, detalle con enlaces y el
+    **comando para actualizar** (se copia o se escribe en la terminal sin Enter; nunca se ejecuta solo).
+  - Con sudo, también los contenedores de root y de los usuarios que elijas. Las imágenes se leen sin
+    arrancarlas. **Cancelar** detiene el análisis también en el servidor.
+  - Historial de los últimos 20 análisis por servidor; exportar a JSON y Markdown.
+  - Atajo desde Contenedores → Imágenes: «Ver vulnerabilidades».
+- **Asistente de IA opcional** (Ajustes → Asistente de IA): cualquier servicio compatible con OpenAI
+  (también uno local como Ollama). Solo **explica** un informe: antes de enviar ves el texto exacto, sin
+  nombre del servidor, IP, usuarios ni rutas. El token va en la bóveda o el llavero.
+
 ## [0.4.0] - 2026-11-12
 
 ### Añadido

diff --git a/README.md b/README.md
@@ -52,6 +52,8 @@
 - **Ver puertos y sitios web** del servidor: qué programa usa cada puerto y los sitios de nginx o Caddy
   con sus dominios y certificados.
 - **Ejecutar un comando en varios servidores** a la vez y comparar los resultados.
+- **Buscar vulnerabilidades** en el servidor y en sus contenedores, con datos de OSV.dev y de tu distro, y
+  el comando para actualizar. Si quieres, una IA te lo explica.
 - **Conectar tu cuenta de GitHub**: llaves SSH, clonar, desplegar y sincronizar tu configuración.
 - **Proteger tus contraseñas con un PIN**: quedan cifradas y TerView se bloquea al abrirlo y tras un rato sin uso.
 - **Actualizarse sola** cuando sale una versión nueva.
